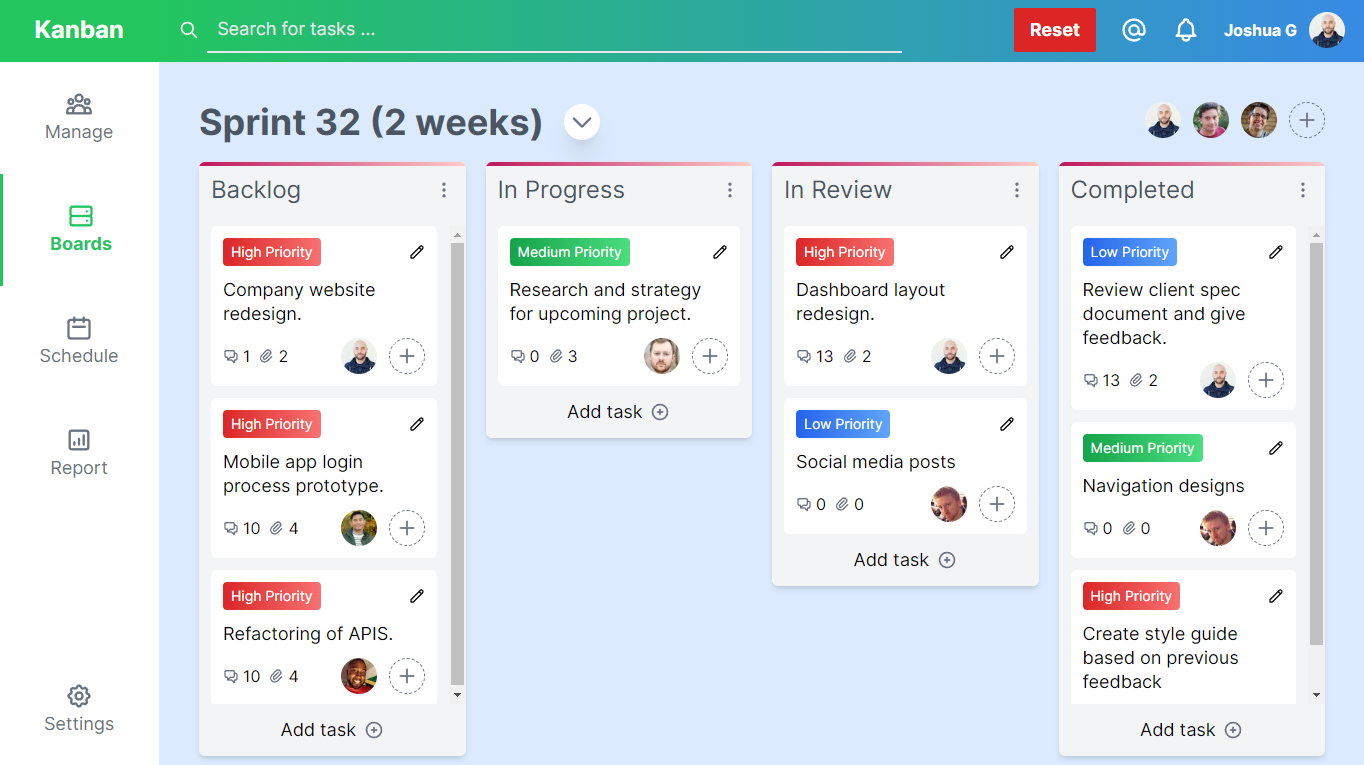
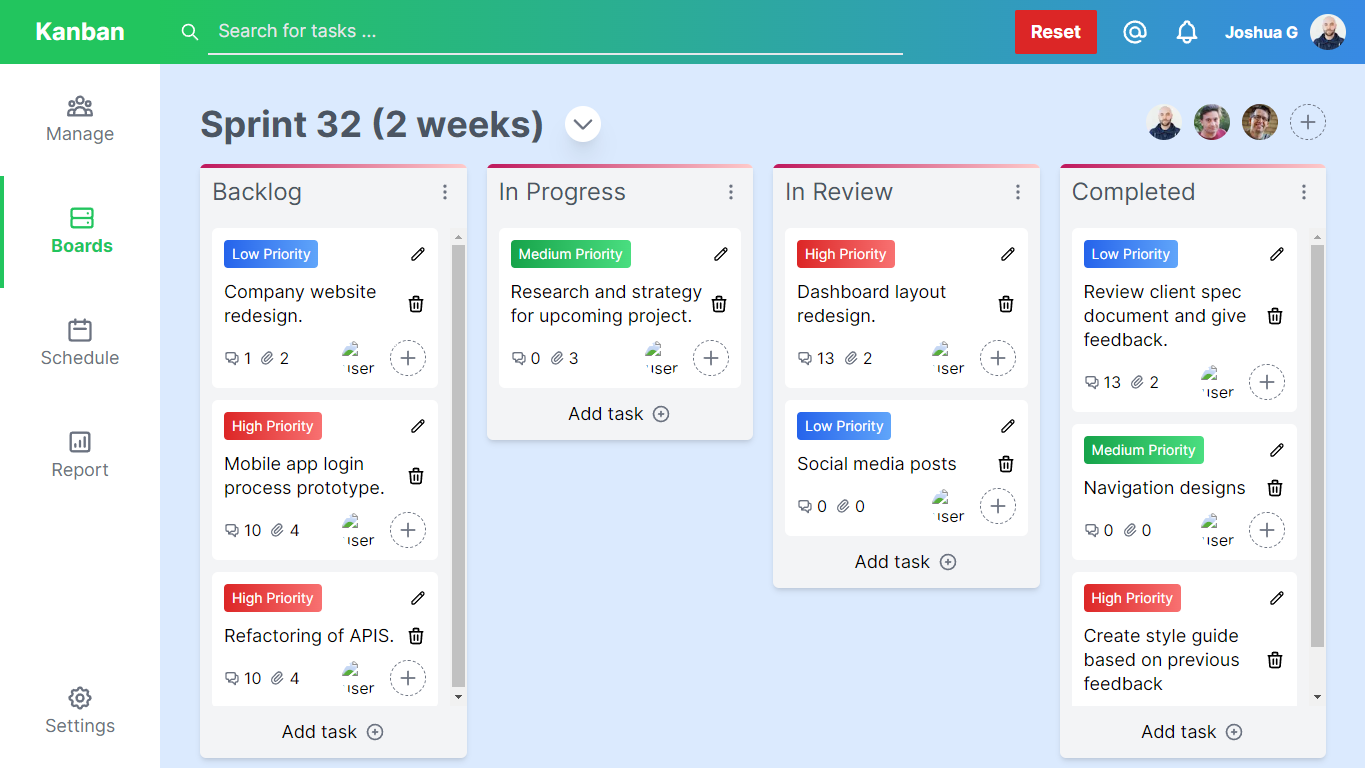
Updated Kanban from personal projects.

diff --git a/src/app/Personal-Projects/index.tsx b/src/app/Personal-Projects/index.tsx
@@ -120,7 +120,7 @@ export default function PersonalProjects() {
                         </p>
                         <p className='pb-[100px]'>
                             Description: A simple Kanban Board that I forked from a github repository and added some features to it such as editing of tasks,
-                            editing of priority, and adding search and reset functionality.
+                            deleting of tasks, editing of priority, and adding search and reset functionality.
                         </p>
                     </Fade>
                     <Fade triggerOnce direction='up' delay={200}>
